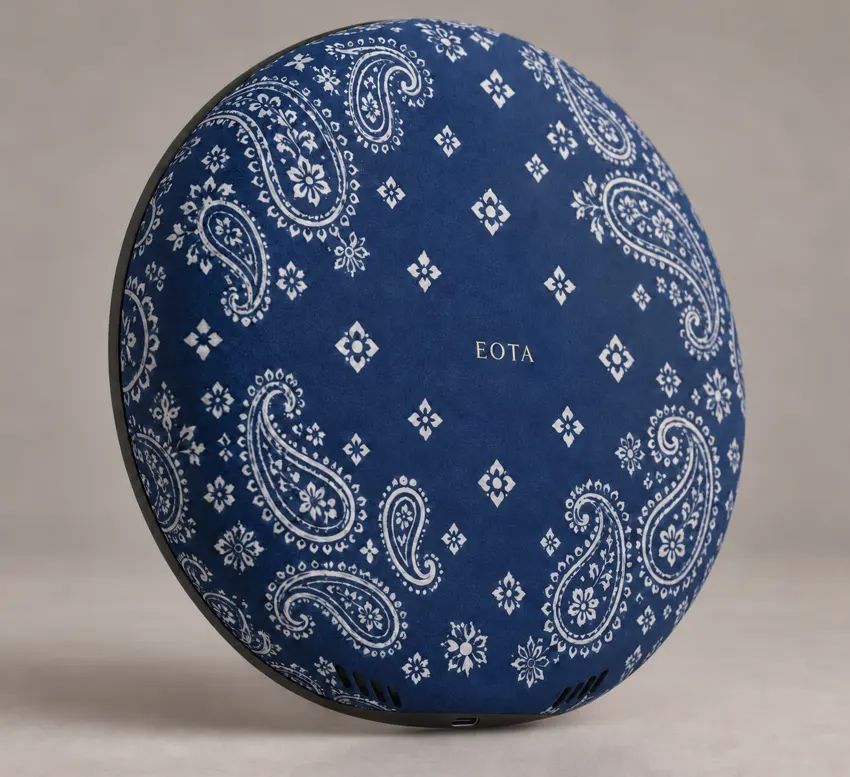
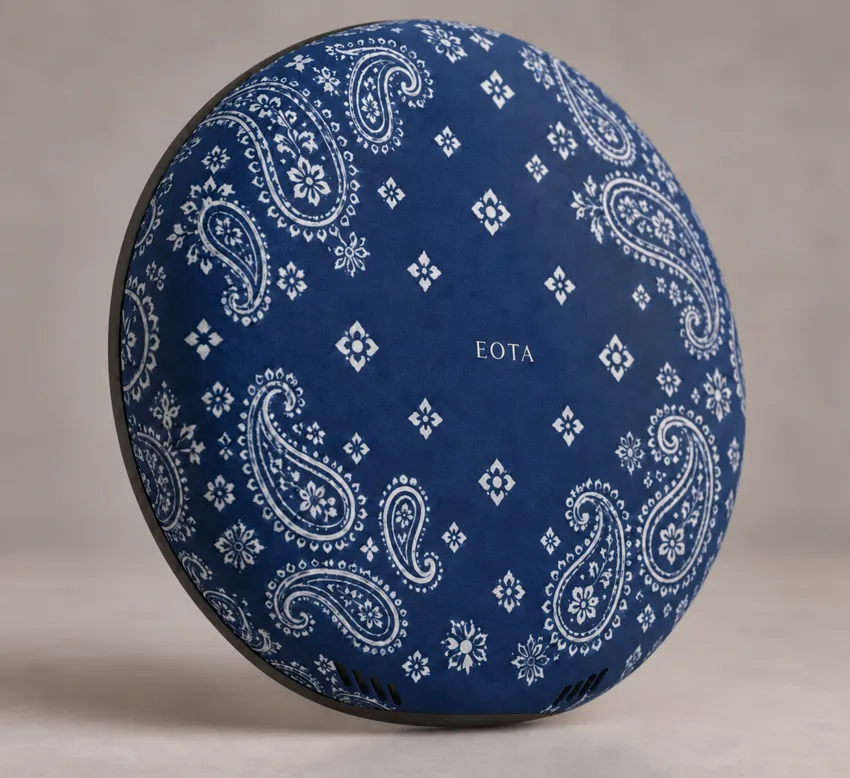
Remove incorrectly depicted charging ports from all four tablet back concepts

diff --git a/index.html b/index.html
@@ -327,8 +327,8 @@ html,body{overflow:hidden!important;scrollbar-width:none;background:transparent!
 
 <figure aria-label="Holy Bible EOTA Scrolbook" style="max-width:1000px;margin:24px auto;color:#102335;background:transparent;padding:12px;border-radius:20px;box-sizing:border-box">
 
-<style>.eota-tablet-pair{display:grid;grid-template-columns:repeat(2,minmax(0,1fr));gap:12px;margin-top:12px;align-items:start}.eota-tablet-pair img{aspect-ratio:1/1;object-fit:cover;object-position:center;min-width:0}@media(max-width:600px){.eota-tablet-pair{grid-template-columns:1fr}}</style><div class="eota-tablet-pair" aria-label="blue bandanna tablet front and back"><img src="/assets/eota-round-tablet-blue-front.webp?v=20261017-port-final" width="1100" height="1100" loading="lazy" decoding="async" alt="blue bandanna EOTA circular tablet showing EOTA Desktop concept" style="display:block;width:100%;height:auto;border-radius:12px"><img src="/assets/eota-round-tablet-blue-back.webp?v=20261017-port-final" width="1100" height="1100" loading="lazy" decoding="async" alt="blue bandanna EOTA circular tablet back concept" style="display:block;width:100%;height:auto;border-radius:12px"></div><div class="eota-tablet-pair" aria-label="red bandanna tablet front and back"><img src="/assets/eota-round-tablet-red-front.webp?v=20261017-port-final" width="1100" height="1100" loading="lazy" decoding="async" alt="red bandanna EOTA circular tablet showing EOTA Desktop concept" style="display:block;width:100%;height:auto;border-radius:12px"><img src="/assets/eota-round-tablet-red-back.webp?v=20261017-port-final" width="1100" height="1100" loading="lazy" decoding="async" alt="red bandanna EOTA circular tablet back concept" style="display:block;width:100%;height:auto;border-radius:12px"></div>
-<div class="eota-tablet-pair" aria-label="white bandanna tablet front and back"><img src="/assets/eota-round-tablet-white-front.webp?v=edition1" width="1100" height="1100" loading="lazy" decoding="async" alt="white bandanna EOTA circular tablet front concept" style="display:block;width:100%;height:auto;border-radius:12px"><img src="/assets/eota-round-tablet-white-back.webp?v=edition1" width="1100" height="1100" loading="lazy" decoding="async" alt="white bandanna EOTA circular tablet back concept" style="display:block;width:100%;height:auto;border-radius:12px"></div><div class="eota-tablet-pair" aria-label="black bandanna tablet front and back"><img src="/assets/eota-round-tablet-black-front.webp?v=edition1" width="1100" height="1100" loading="lazy" decoding="async" alt="black bandanna EOTA circular tablet front concept" style="display:block;width:100%;height:auto;border-radius:12px"><img src="/assets/eota-round-tablet-black-back.webp?v=edition1" width="1100" height="1100" loading="lazy" decoding="async" alt="black bandanna EOTA circular tablet back concept" style="display:block;width:100%;height:auto;border-radius:12px"></div></figure>
+<style>.eota-tablet-pair{display:grid;grid-template-columns:repeat(2,minmax(0,1fr));gap:12px;margin-top:12px;align-items:start}.eota-tablet-pair img{aspect-ratio:1/1;object-fit:cover;object-position:center;min-width:0}@media(max-width:600px){.eota-tablet-pair{grid-template-columns:1fr}}</style><div class="eota-tablet-pair" aria-label="blue bandanna tablet front and back"><img src="/assets/eota-round-tablet-blue-front.webp?v=20261017-port-final" width="1100" height="1100" loading="lazy" decoding="async" alt="blue bandanna EOTA circular tablet showing EOTA Desktop concept" style="display:block;width:100%;height:auto;border-radius:12px"><img src="/assets/eota-round-tablet-blue-back.webp?v=no-back-port-2" width="1100" height="1100" loading="lazy" decoding="async" alt="blue bandanna EOTA circular tablet back concept" style="display:block;width:100%;height:auto;border-radius:12px"></div><div class="eota-tablet-pair" aria-label="red bandanna tablet front and back"><img src="/assets/eota-round-tablet-red-front.webp?v=20261017-port-final" width="1100" height="1100" loading="lazy" decoding="async" alt="red bandanna EOTA circular tablet showing EOTA Desktop concept" style="display:block;width:100%;height:auto;border-radius:12px"><img src="/assets/eota-round-tablet-red-back.webp?v=no-back-port-2" width="1100" height="1100" loading="lazy" decoding="async" alt="red bandanna EOTA circular tablet back concept" style="display:block;width:100%;height:auto;border-radius:12px"></div>
+<div class="eota-tablet-pair" aria-label="white bandanna tablet front and back"><img src="/assets/eota-round-tablet-white-front.webp?v=edition1" width="1100" height="1100" loading="lazy" decoding="async" alt="white bandanna EOTA circular tablet front concept" style="display:block;width:100%;height:auto;border-radius:12px"><img src="/assets/eota-round-tablet-white-back.webp?v=no-back-port-2" width="1100" height="1100" loading="lazy" decoding="async" alt="white bandanna EOTA circular tablet back concept" style="display:block;width:100%;height:auto;border-radius:12px"></div><div class="eota-tablet-pair" aria-label="black bandanna tablet front and back"><img src="/assets/eota-round-tablet-black-front.webp?v=edition1" width="1100" height="1100" loading="lazy" decoding="async" alt="black bandanna EOTA circular tablet front concept" style="display:block;width:100%;height:auto;border-radius:12px"><img src="/assets/eota-round-tablet-black-back.webp?v=no-back-port-2" width="1100" height="1100" loading="lazy" decoding="async" alt="black bandanna EOTA circular tablet back concept" style="display:block;width:100%;height:auto;border-radius:12px"></div></figure>
 <section aria-label="YouTube video below the Scrollbook" style="max-width:1000px;margin:32px auto;padding:24px;background:#092534;border:1px solid #416b79;border-radius:20px;color:#fff;box-sizing:border-box">
 <div style="position:relative;width:100%;aspect-ratio:16/9;background:#000;border-radius:12px;overflow:hidden">
 <button id="eota-load-video" type="button" style="position:absolute;inset:0;z-index:1;width:100%;border:0;background:linear-gradient(135deg,#0c3349,#111c31);color:#fff;font:600 22px system-ui;cursor:pointer" aria-label="Load and play YouTube video">▶ Play YouTube video</button><iframe id="eota-youtube" data-src="https://www.youtube.com/embed/0jHV0HxQQGw?autoplay=1&amp;playsinline=1" title="YouTube video" loading="eager" allow="accelerometer; autoplay; clipboard-write; encrypted-media; gyroscope; picture-in-picture; web-share" referrerpolicy="strict-origin-when-cross-origin" allowfullscreen style="position:absolute;inset:0;width:100%;height:100%;border:0"></iframe>

diff --git a/scrollbook.html b/scrollbook.html
@@ -327,8 +327,8 @@ html,body{overflow:hidden!important;scrollbar-width:none;background:transparent!
 
 <figure aria-label="Holy Bible EOTA Scrolbook" style="max-width:1000px;margin:24px auto;color:#102335;background:transparent;padding:12px;border-radius:20px;box-sizing:border-box">
 
-<style>.eota-tablet-pair{display:grid;grid-template-columns:repeat(2,minmax(0,1fr));gap:12px;margin-top:12px;align-items:start}.eota-tablet-pair img{aspect-ratio:1/1;object-fit:cover;object-position:center;min-width:0}@media(max-width:600px){.eota-tablet-pair{grid-template-columns:1fr}}</style><div class="eota-tablet-pair" aria-label="blue bandanna tablet front and back"><img src="/assets/eota-round-tablet-blue-front.webp?v=20261017-port-final" width="1100" height="1100" loading="lazy" decoding="async" alt="blue bandanna EOTA circular tablet showing EOTA Desktop concept" style="display:block;width:100%;height:auto;border-radius:12px"><img src="/assets/eota-round-tablet-blue-back.webp?v=20261017-port-final" width="1100" height="1100" loading="lazy" decoding="async" alt="blue bandanna EOTA circular tablet back concept" style="display:block;width:100%;height:auto;border-radius:12px"></div><div class="eota-tablet-pair" aria-label="red bandanna tablet front and back"><img src="/assets/eota-round-tablet-red-front.webp?v=20261017-port-final" width="1100" height="1100" loading="lazy" decoding="async" alt="red bandanna EOTA circular tablet showing EOTA Desktop concept" style="display:block;width:100%;height:auto;border-radius:12px"><img src="/assets/eota-round-tablet-red-back.webp?v=20261017-port-final" width="1100" height="1100" loading="lazy" decoding="async" alt="red bandanna EOTA circular tablet back concept" style="display:block;width:100%;height:auto;border-radius:12px"></div>
-<div class="eota-tablet-pair" aria-label="white bandanna tablet front and back"><img src="/assets/eota-round-tablet-white-front.webp?v=edition1" width="1100" height="1100" loading="lazy" decoding="async" alt="white bandanna EOTA circular tablet front concept" style="display:block;width:100%;height:auto;border-radius:12px"><img src="/assets/eota-round-tablet-white-back.webp?v=edition1" width="1100" height="1100" loading="lazy" decoding="async" alt="white bandanna EOTA circular tablet back concept" style="display:block;width:100%;height:auto;border-radius:12px"></div><div class="eota-tablet-pair" aria-label="black bandanna tablet front and back"><img src="/assets/eota-round-tablet-black-front.webp?v=edition1" width="1100" height="1100" loading="lazy" decoding="async" alt="black bandanna EOTA circular tablet front concept" style="display:block;width:100%;height:auto;border-radius:12px"><img src="/assets/eota-round-tablet-black-back.webp?v=edition1" width="1100" height="1100" loading="lazy" decoding="async" alt="black bandanna EOTA circular tablet back concept" style="display:block;width:100%;height:auto;border-radius:12px"></div></figure>
+<style>.eota-tablet-pair{display:grid;grid-template-columns:repeat(2,minmax(0,1fr));gap:12px;margin-top:12px;align-items:start}.eota-tablet-pair img{aspect-ratio:1/1;object-fit:cover;object-position:center;min-width:0}@media(max-width:600px){.eota-tablet-pair{grid-template-columns:1fr}}</style><div class="eota-tablet-pair" aria-label="blue bandanna tablet front and back"><img src="/assets/eota-round-tablet-blue-front.webp?v=20261017-port-final" width="1100" height="1100" loading="lazy" decoding="async" alt="blue bandanna EOTA circular tablet showing EOTA Desktop concept" style="display:block;width:100%;height:auto;border-radius:12px"><img src="/assets/eota-round-tablet-blue-back.webp?v=no-back-port-2" width="1100" height="1100" loading="lazy" decoding="async" alt="blue bandanna EOTA circular tablet back concept" style="display:block;width:100%;height:auto;border-radius:12px"></div><div class="eota-tablet-pair" aria-label="red bandanna tablet front and back"><img src="/assets/eota-round-tablet-red-front.webp?v=20261017-port-final" width="1100" height="1100" loading="lazy" decoding="async" alt="red bandanna EOTA circular tablet showing EOTA Desktop concept" style="display:block;width:100%;height:auto;border-radius:12px"><img src="/assets/eota-round-tablet-red-back.webp?v=no-back-port-2" width="1100" height="1100" loading="lazy" decoding="async" alt="red bandanna EOTA circular tablet back concept" style="display:block;width:100%;height:auto;border-radius:12px"></div>
+<div class="eota-tablet-pair" aria-label="white bandanna tablet front and back"><img src="/assets/eota-round-tablet-white-front.webp?v=edition1" width="1100" height="1100" loading="lazy" decoding="async" alt="white bandanna EOTA circular tablet front concept" style="display:block;width:100%;height:auto;border-radius:12px"><img src="/assets/eota-round-tablet-white-back.webp?v=no-back-port-2" width="1100" height="1100" loading="lazy" decoding="async" alt="white bandanna EOTA circular tablet back concept" style="display:block;width:100%;height:auto;border-radius:12px"></div><div class="eota-tablet-pair" aria-label="black bandanna tablet front and back"><img src="/assets/eota-round-tablet-black-front.webp?v=edition1" width="1100" height="1100" loading="lazy" decoding="async" alt="black bandanna EOTA circular tablet front concept" style="display:block;width:100%;height:auto;border-radius:12px"><img src="/assets/eota-round-tablet-black-back.webp?v=no-back-port-2" width="1100" height="1100" loading="lazy" decoding="async" alt="black bandanna EOTA circular tablet back concept" style="display:block;width:100%;height:auto;border-radius:12px"></div></figure>
 <section aria-label="YouTube video below the Scrollbook" style="max-width:1000px;margin:32px auto;padding:24px;background:#092534;border:1px solid #416b79;border-radius:20px;color:#fff;box-sizing:border-box">
 <div style="position:relative;width:100%;aspect-ratio:16/9;background:#000;border-radius:12px;overflow:hidden">
 <button id="eota-load-video" type="button" style="position:absolute;inset:0;z-index:1;width:100%;border:0;background:linear-gradient(135deg,#0c3349,#111c31);color:#fff;font:600 22px system-ui;cursor:pointer" aria-label="Load and play YouTube video">▶ Play YouTube video</button><iframe id="eota-youtube" data-src="https://www.youtube.com/embed/0jHV0HxQQGw?autoplay=1&amp;playsinline=1" title="YouTube video" loading="eager" allow="accelerometer; autoplay; clipboard-write; encrypted-media; gyroscope; picture-in-picture; web-share" referrerpolicy="strict-origin-when-cross-origin" allowfullscreen style="position:absolute;inset:0;width:100%;height:100%;border:0"></iframe>
